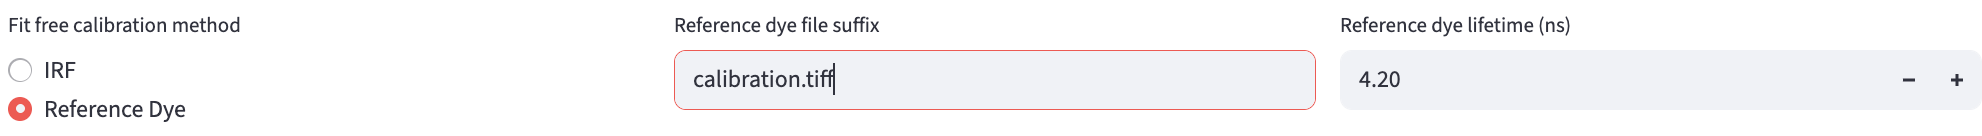
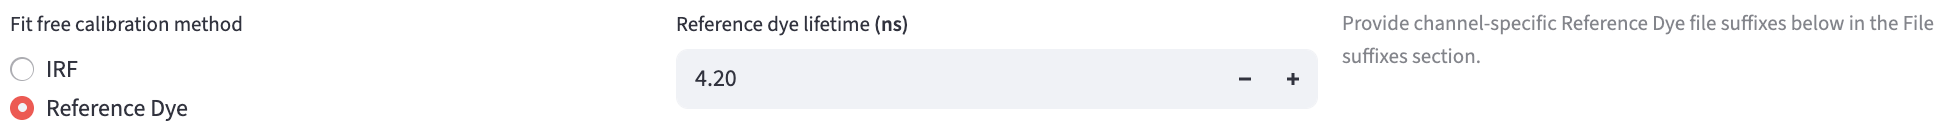
updated the instruction to allow for channel -specific reference dye

diff --git a/table1.tex b/table1.tex
@@ -1,0 +1,50 @@
+\documentclass{article}
+\usepackage{booktabs}
+\usepackage{array}
+\usepackage{tikz}
+\usepackage[table]{xcolor} % for \cellcolor
+
+\begin{document}
+
+\begin{tikzpicture}
+\node[inner sep=0] (tbl) {%
+\begin{tabular}{@{} >{\raggedright\arraybackslash}p{2.5cm}
+                    >{\raggedright\arraybackslash}p{4cm}
+                    >{\raggedright\arraybackslash}p{4cm}
+                    >{\raggedright\arraybackslash}p{2.5cm} @{}}
+  \toprule
+  Data Levels & Input Types & Methods & Data Semantics \\
+  \midrule
+  \cellcolor{gray!80}Experiment
+    & category labels and combinations thereof
+    & filter, visual channels, comparison, correlation, classification, etc.
+    & \textcolor[HTML]{4880D4}{categorical features}\\
+  \cellcolor{gray!65}Field of View
+    & \multicolumn{2}{>{\raggedright\arraybackslash}p{8cm}}{Aggregating all channels' input types and methods}
+    & \textcolor[HTML]{C94146}{identifier} \\
+  \cellcolor{gray!50}Channel
+    & \multicolumn{2}{>{\raggedright\arraybackslash}p{8cm}}{%
+        \textbf{Fluorophore-specific}: cell ROI masks, calibration files, fitting settings,
+        and extraction methods}
+    & \textcolor[HTML]{D3AE4A}{numerical features} \\
+  \cellcolor{gray!35}Cell ROI
+    & ROI mask or cell-level decay curve, pixel-level extraction results
+    & ROI-level fitting, phasor, morphology, texture
+    & \textbf{single-cell heterogeneity} \\
+  \cellcolor{gray!20}Pixel
+    & a time-resolved decay curve in vendor-specific format
+    & fitting, phasor
+    & N/A \\
+  \bottomrule
+\end{tabular}%
+};
+
+% Left-side arrow from top to bottom
+\draw[->,thick]
+  ([xshift=-5mm]tbl.south west) -- ([xshift=-5mm]tbl.north west)
+  node[midway,xshift=-7mm,rotate=90,align=center]
+  {in increasing complexity};
+
+\end{tikzpicture}
+
+\end{document}
